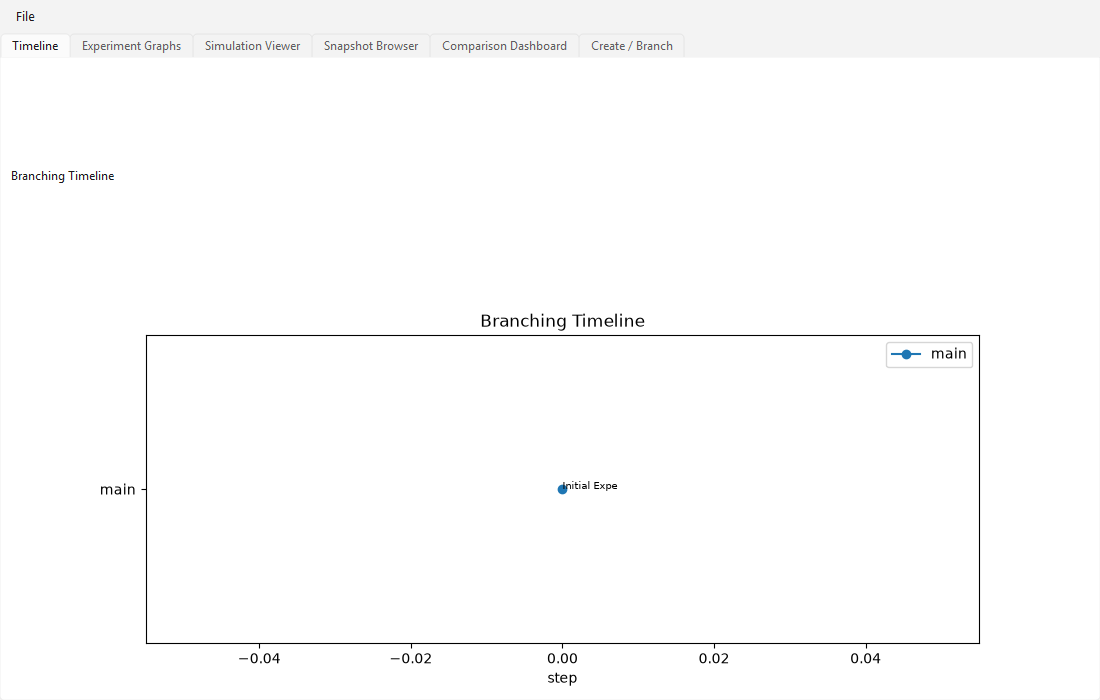
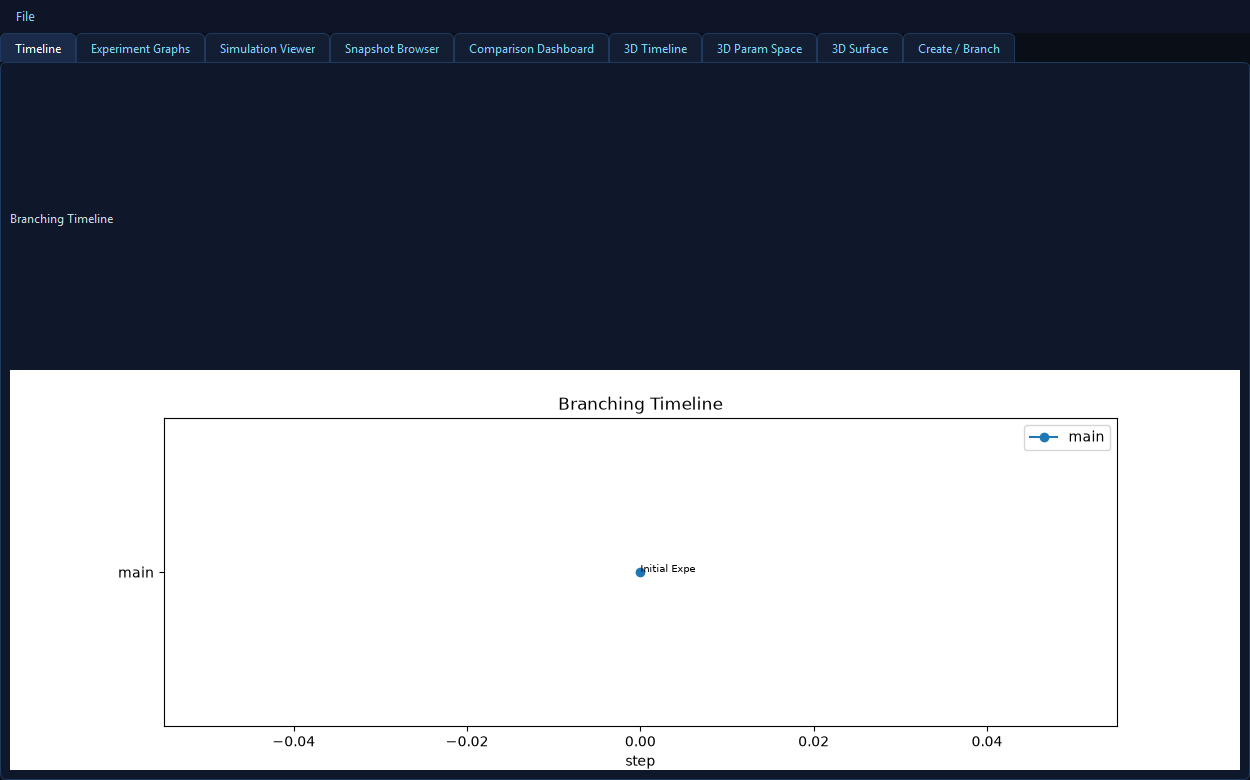
feat: 3D modeling displays and high-tech dark UI (3D timeline, 3D param space, 3D surface)

diff --git a/src/scientific_time_machine/ui/views3d.py b/src/scientific_time_machine/ui/views3d.py
@@ -1,0 +1,160 @@
+"""3D modeling displays: 3D branching timeline, 3D parameter space, 3D simulation surface."""
+import numpy as np
+import matplotlib
+matplotlib.use("QtAgg")
+from matplotlib.backends.backend_qtagg import FigureCanvasQTAgg as FigureCanvas
+from matplotlib.figure import Figure
+from mpl_toolkits.mplot3d import Axes3D  # noqa: F401
+from PySide6.QtWidgets import QWidget, QVBoxLayout, QPushButton, QComboBox, QLabel
+from PySide6.QtCore import Qt
+
+from ..core.replay import run_simulation
+
+CM = {"bg": "#0b1220", "fg": "#e2e8f0", "accent": "#38bdf8", "accent2": "#a78bfa", "accent3": "#34d399"}
+
+
+def _style_fig(fig):
+    fig.patch.set_facecolor(CM["bg"])
+    for ax in fig.axes:
+        ax.set_facecolor(CM["bg"])
+        try:
+            ax.title.set_color("#e2e8f0")
+            ax.xaxis.label.set_color("#cbd5e1")
+            ax.yaxis.label.set_color("#cbd5e1")
+            if hasattr(ax, "zaxis"):
+                ax.zaxis.label.set_color("#cbd5e1")
+            ax.tick_params(colors="#94a3b8", labelsize=8)
+        except Exception:
+            pass
+    return fig
+
+
+class View3DTimeline(QWidget):
+    def __init__(self, ctrl):
+        super().__init__()
+        self.ctrl = ctrl
+        self.layout = QVBoxLayout(self)
+        self.layout.addWidget(QLabel("3D Branching Timeline — depth = branch, x = step, z = hash entropy"))
+        self.canvas = FigureCanvas(Figure(figsize=(9, 6)))
+        self.layout.addWidget(self.canvas)
+        btn = QPushButton("⟳ Refresh 3D Timeline")
+        btn.clicked.connect(self.refresh)
+        self.layout.addWidget(btn)
+        self.refresh()
+
+    def refresh(self):
+        fig = self.canvas.figure
+        fig.clear()
+        ax = fig.add_subplot(111, projection="3d")
+        exps = self.ctrl.list_experiments()
+        branches = {}
+        for e in exps:
+            branches.setdefault(e.branch_name, []).append(e)
+        colors = [CM["accent"], CM["accent2"], CM["accent3"], "#f472b6", "#fbbf24"]
+        for bi, (bname, lst) in enumerate(branches.items()):
+            for i, e in enumerate(lst):
+                z = int(e.snapshot_hash[:4], 16) / 65535.0
+                ax.scatter([i], [bi], [z], s=90, c=colors[bi % len(colors)], label=bname if i == 0 else None)
+                ax.text(i, bi, z, e.name[:8], fontsize=6, color="#cbd5e1")
+            if len(lst) > 1:
+                zs = [int(e.snapshot_hash[:4], 16) / 65535.0 for e in lst]
+                ax.plot(list(range(len(lst))), [bi] * len(lst), zs, color=colors[bi % len(colors)], alpha=0.6)
+        ax.set_xlabel("step")
+        ax.set_ylabel("branch")
+        ax.set_zlabel("snapshot entropy")
+        ax.set_title("3D BRANCHING TIMELINE")
+        ax.set_yticks(range(len(branches)))
+        ax.set_yticklabels(list(branches.keys()))
+        ax.legend()
+        ax.view_init(elev=22, azim=-58)
+        _style_fig(fig)
+        self.canvas.draw()
+
+
+class View3DParamSpace(QWidget):
+    def __init__(self, ctrl):
+        super().__init__()
+        self.ctrl = ctrl
+        self.layout = QVBoxLayout(self)
+        self.layout.addWidget(QLabel("3D Parameter Space — x = steps, y = noise, z = mean outcome (color = branch)"))
+        self.canvas = FigureCanvas(Figure(figsize=(9, 6)))
+        self.layout.addWidget(self.canvas)
+        btn = QPushButton("⟳ Refresh 3D Parameter Space")
+        btn.clicked.connect(self.refresh)
+        self.layout.addWidget(btn)
+        self.refresh()
+
+    def refresh(self):
+        fig = self.canvas.figure
+        fig.clear()
+        ax = fig.add_subplot(111, projection="3d")
+        exps = self.ctrl.list_experiments()
+        branches = {}
+        for e in exps:
+            branches.setdefault(e.branch_name, []).append(e)
+        colors = [CM["accent"], CM["accent2"], CM["accent3"], "#f472b6", "#fbbf24"]
+        for bi, (bname, lst) in enumerate(branches.items()):
+            pts = []
+            for e in lst:
+                res = run_simulation(e)
+                pts.append((e.params.get("steps", 0), e.params.get("noise", 0), res["mean"]))
+            if pts:
+                arr = np.array(pts)
+                ax.scatter(arr[:, 0], arr[:, 1], arr[:, 2], s=70, c=colors[bi % len(colors)], label=bname, depthshade=True)
+        ax.set_xlabel("steps")
+        ax.set_ylabel("noise")
+        ax.set_zlabel("mean outcome")
+        ax.set_title("3D PARAMETER SPACE")
+        ax.legend()
+        ax.view_init(elev=20, azim=-135)
+        _style_fig(fig)
+        self.canvas.draw()
+
+
+class View3DSurface(QWidget):
+    def __init__(self, ctrl):
+        super().__init__()
+        self.ctrl = ctrl
+        self.layout = QVBoxLayout(self)
+        self.layout.addWidget(QLabel("3D Simulation Surface — parameter sweep surface (steps x noise -> mean)"))
+        self.combo = QComboBox()
+        self.layout.addWidget(self.combo)
+        self.canvas = FigureCanvas(Figure(figsize=(9, 6)))
+        self.layout.addWidget(self.canvas)
+        row = QVBoxLayout()
+        btn = QPushButton("⟳ Render 3D Surface")
+        btn.clicked.connect(self.render)
+        self.layout.addWidget(btn)
+        self.refresh_list()
+
+    def refresh_list(self):
+        self.combo.clear()
+        for e in self.ctrl.list_experiments():
+            self.combo.addItem(f"{e.name} ({e.id[:8]})", e)
+
+    def render(self):
+        e = self.combo.currentData()
+        fig = self.canvas.figure
+        fig.clear()
+        ax = fig.add_subplot(111, projection="3d")
+        steps_vals = np.linspace(20, 120, 12)
+        noise_vals = np.linspace(0.02, 0.5, 8)
+        S, N = np.meshgrid(steps_vals, noise_vals)
+        Z = np.zeros_like(S)
+        import copy
+        for i in range(S.shape[0]):
+            for j in range(S.shape[1]):
+                ec = copy.deepcopy(e)
+                ec.params = dict(e.params)
+                ec.params["steps"] = int(S[i, j])
+                ec.params["noise"] = float(N[i, j])
+                Z[i, j] = run_simulation(ec)["mean"]
+        surf = ax.plot_surface(S, N, Z, cmap="turbo", alpha=0.9, linewidth=0.3, antialiased=True)
+        fig.colorbar(surf, ax=ax, shrink=0.5, aspect=10)
+        ax.set_xlabel("steps")
+        ax.set_ylabel("noise")
+        ax.set_zlabel("mean")
+        ax.set_title(f"3D SIMULATION SURFACE — {e.name if e else ''}")
+        ax.view_init(elev=28, azim=-122)
+        _style_fig(fig)
+        self.canvas.draw()

diff --git a/src/scientific_time_machine/ui/main_window.py b/src/scientific_time_machine/ui/main_window.py
@@ -16,6 +16,8 @@ matplotlib.use("QtAgg")
 from ..core.experiment import Experiment
 from ..core.replay import run_simulation
 from ..app import AppController
+from .theme import HIGH_TECH_QSS
+from .views3d import View3DTimeline, View3DParamSpace, View3DSurface
 
 
 class TimelineView(QWidget):
@@ -172,8 +174,9 @@ class MainWindow(QMainWindow):
     def __init__(self, ctrl):
         super().__init__()
         self.ctrl = ctrl
-        self.setWindowTitle("SCIENTIFIC TIME MACHINE")
-        self.resize(1100, 700)
+        self.setWindowTitle("SCIENTIFIC TIME MACHINE — 3D")
+        self.resize(1250, 780)
+        self.setStyleSheet(HIGH_TECH_QSS)
         tabs = QTabWidget()
         self.timeline = TimelineView(ctrl)
         self.graph = ExperimentGraphView(ctrl)
@@ -185,6 +188,12 @@ class MainWindow(QMainWindow):
         tabs.addTab(self.sim, "Simulation Viewer")
         tabs.addTab(self.snaps, "Snapshot Browser")
         tabs.addTab(self.cmp, "Comparison Dashboard")
+        self.timeline3d = View3DTimeline(ctrl)
+        self.param3d = View3DParamSpace(ctrl)
+        self.surface3d = View3DSurface(ctrl)
+        tabs.addTab(self.timeline3d, "3D Timeline")
+        tabs.addTab(self.param3d, "3D Param Space")
+        tabs.addTab(self.surface3d, "3D Surface")
         self.create_tab = self._build_create_tab()
         tabs.addTab(self.create_tab, "Create / Branch")
         self.setCentralWidget(tabs)
@@ -245,6 +254,9 @@ class MainWindow(QMainWindow):
 
     def _refresh_all(self):
         self.timeline.refresh()
+        self.timeline3d.refresh()
+        self.param3d.refresh()
+        self.surface3d.refresh_list()
         self.graph.refresh_list()
         self.sim.refresh_list()
         self.snaps.refresh()

diff --git a/src/scientific_time_machine/ui/theme.py b/src/scientific_time_machine/ui/theme.py
@@ -1,0 +1,18 @@
+"""Style module deprecated - theme lives in main_window.py."""
+HIGH_TECH_QSS = """
+QMainWindow { background: #0a0e17; }
+QTabWidget::pane { background: #0f172a; border: 1px solid #1e3a5f; border-radius: 6px; }
+QTabBar::tab { background: #131e33; color: #7dd3fc; border: 1px solid #1e3a5f; border-bottom: none; padding: 6px 14px; border-top-left-radius: 6px; border-top-right-radius: 6px; }
+QTabBar::tab:selected { background: #1a2b4a; color: #ffffff; }
+QPushButton { background: #16213a; color: #7dd3fc; border: 1px solid #2b4c7e; border-radius: 5px; padding: 6px 14px; }
+QPushButton:hover { background: #1e2e4f; color: #ffffff; border-color: #38bdf8; }
+QPushButton:pressed { background: #0f2646; }
+QLabel { color: #cbd5e1; }
+QComboBox, QLineEdit, QSpinBox, QDoubleSpinBox { background: #0f1b2f; color: #e2e8f0; border: 1px solid #243b63; border-radius: 4px; padding: 4px 8px; }
+QTextEdit, QListWidget { background: #0b1220; color: #a5f3fc; border: 1px solid #1e3a5f; border-radius: 4px; }
+QGroupBox { color: #7dd3fc; border: 1px solid #1e3a5f; border-radius: 6px; margin-top: 10px; padding-top: 12px; }
+QGroupBox::title { subcontrol-origin: margin; left: 10px; }
+QMenuBar { background: #0d1526; color: #7dd3fc; }
+QMenu { background: #0d1526; color: #e2e8f0; }
+QMessageBox { background: #0f172a; }
+"""

diff --git a/tests/test_ui.py b/tests/test_ui.py
@@ -10,5 +10,5 @@ def test_ui_smoke(qtbot):
     win = MainWindow(ctrl)
     qtbot.addWidget(win)
     win.show()
-    assert win.windowTitle() == "SCIENTIFIC TIME MACHINE"
+    assert "SCIENTIFIC TIME MACHINE" in win.windowTitle()
     ctrl.close()
